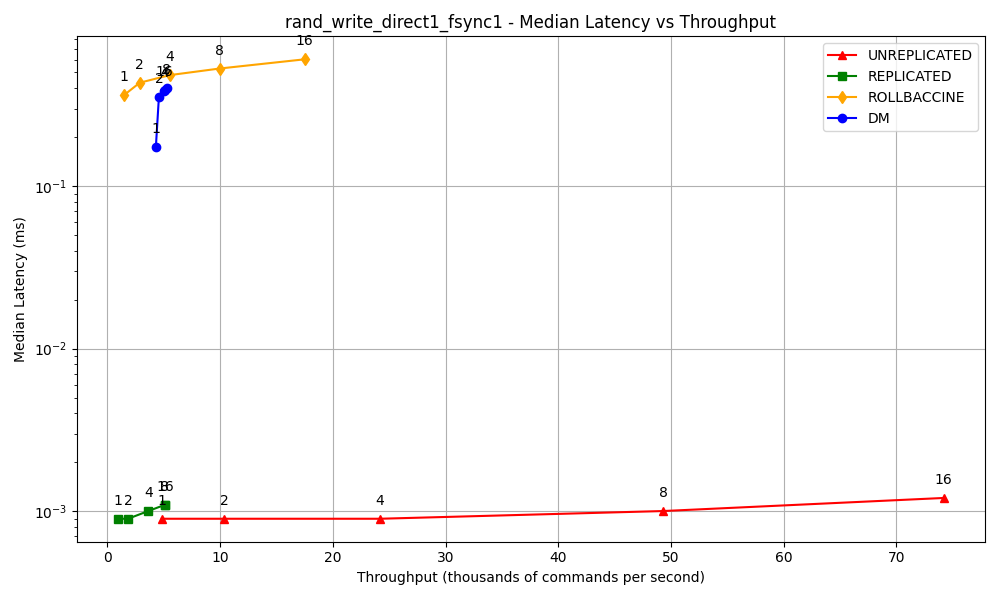
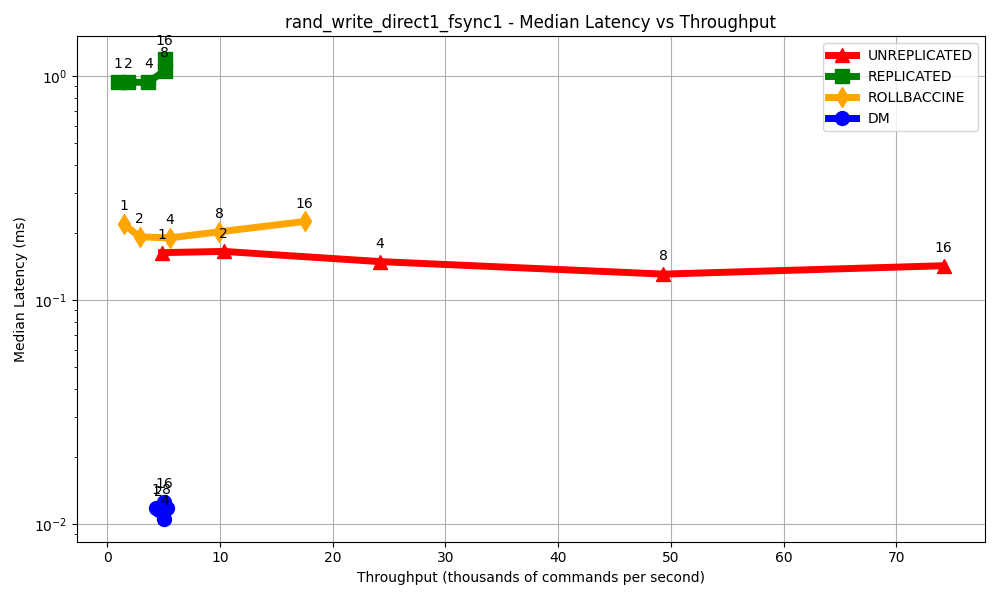
New fio script in order to saturate, fix graph script, data disk caching off for REPLICATED

diff --git a/src/tools/benchmarking/fio/fio_utils.py b/src/tools/benchmarking/fio/fio_utils.py
@@ -11,82 +11,66 @@ from benchmark import *
 from utils import *
 
 class FioBenchmark(Benchmark):
-    def build_fio_command(self, parameters, output_file):
+    def discard_fio_command(self, system_type, io_direction, sequentiality, direct, fsync, num_jobs):
         """
-        Builds the FIO command based on the given parameters.
+        Returns which fio commands should be discarded based on the system config, in order to saturate individual configs (or stop after we've saturated)
         """
-        fio_command = (
-            f'sudo fio '
-            f'--name={parameters["name"]} '
-            f'--rw={parameters["write_mode"]} '
-            f'--direct={parameters.get("direct", 1)} '
-            f'--bs={parameters["bs"]} '
-        )
-        if parameters.get('runtime', 0) > 0:
-            fio_command += f'--runtime={parameters["runtime"]} '
-            fio_command += '--time_based '
-        if parameters.get('ramp_time', 0) > 0:
-            fio_command += f'--ramp_time={parameters["ramp_time"]} '
-        fio_command += f'--filename={parameters.get("filename", "/tmp/fio_test_file")} '
-        if parameters.get('filename_format'):
-            fio_command += f'--filename_format={parameters["filename_format"]} '
-        fio_command += f'--output-format=json '
-        fio_command += f'--iodepth={parameters.get("iodepth", 1)} '
-        fio_command += f'--numjobs={parameters["numjobs"]} '
-        if parameters.get('group_reporting', True):
-            fio_command += '--group_reporting '
-        if parameters.get('fsync', 0) == 1:
-            fio_command += '--fsync=1 '
-        fio_command += '--end_fsync=1 '
+        if system_type == System.DM:
+            if io_direction == 'write':
+                if sequentiality == 'rand':
+                    if direct == 0:
+                        if fsync == 1:
+                            if num_jobs > 8:
+                                return True
+                    else: # direct = 1
+                        if num_jobs > 4:
+                            return True
+                else: # sequential
+                    if direct == 1 and fsync == 0:
+                        if num_jobs > 4:
+                            return True
+        if sequentiality == 'rand' and io_direction == 'write' and direct == 0 and fsync == 0 and num_jobs > 4:
+            return True
+        if sequentiality == '' and io_direction == 'read' and direct == 0 and fsync == 0 and num_jobs > 4:
+            return True
+        return False
 
-        # Include additional FIO options if provided
-        additional_fio_options = parameters.get('additional_fio_options')
-        if additional_fio_options:
-            fio_command += f'{additional_fio_options} '
-
-        fio_command += f'| tee {output_file}'
-        return fio_command
-    
-    def build_fio_parameters_list(self, system_type: System):
+    def build_fio_commands(self, system_type: System, output_dir: str):
         filename = mount_point(system_type)
 
-        # Possible values for each parameter
+        # Possible values for each parameter. Most intense options first so we see errors early
         io_directions = ['write', 'read']
-        sequentialities = ['seq', 'rand']
-        bufferings = [1, 0]  # direct=1 (Direct I/O) or direct=0 (Buffered I/O)
-        persistences = [1, 0]  # fsync=1 (Synchronous) or fsync=0 (Asynchronous)
+        sequentialities = ['', 'rand'] # Empty string means sequential
+        bufferings = [0, 1]  # direct=1 (Direct I/O) or direct=0 (Buffered I/O)
+        persistences = [0, 1]  # fsync=1 (Synchronous) or fsync=0 (Asynchronous)
+        num_jobs_list = [32, 16, 8, 4, 1]
+
+        # Replicated disk saturates very quickly, don't run too many jobs
+        if system_type == System.REPLICATED:
+            num_jobs_list = [16, 8, 1]
 
         # Generate all permutations
-        all_combinations = list(itertools.product(io_directions, sequentialities, bufferings, persistences))
+        all_combinations = list(itertools.product(io_directions, sequentialities, bufferings, persistences, num_jobs_list))
         all_combinations = [combo for combo in all_combinations if not (combo[0] == 'read' and combo[3] == 1)]
-        fio_parameters_list = []
-        print(f"all_combinations: {all_combinations}")
 
-        for io_direction, sequentiality, direct_io, fsync in all_combinations:
-            # Construct the 'rw' parameter for FIO
-            if sequentiality == 'seq':
-                rw = io_direction
-            else:
-                rw = 'rand' + io_direction
+        fio_commands = []
+        # Add 2 additional commands
+        all_combinations.insert(0, ('read', '', 0, 0, 6))
+        all_combinations.insert(0, ('write', '', 0, 0, 64))
 
-            # Build the fio parameter dictionary
-            fio_param = {
-                'name': f'{sequentiality}_{io_direction}_direct{direct_io}_fsync{fsync}',
-                'write_mode': rw,
-                'bs': '4k',
-                'direct': direct_io,
-                'filename': filename,
-                'runtime': 30,
-                'ramp_time': 60,
-                'group_reporting': True,
-            }
+        for io_direction, sequentiality, direct, fsync, num_jobs in all_combinations:
+            # Don't execute certain commands
+            if self.discard_fio_command(system_type, io_direction, sequentiality, direct, fsync, num_jobs):
+                continue
 
-            # Add fsync parameter if persistence is required
-            if fsync == 1:
-                fio_param['fsync'] = 1  # Issue fsync after each write
+            rw = sequentiality + io_direction
+            job_name = f"{rw}_direct{direct}_fsync{fsync}_threads_{num_jobs}_{str(uuid.uuid4())[:4]}"
+            output_file = os.path.join(output_dir, f'{job_name}_fio_results.json')
 
-            fio_parameters_list.append(fio_param)
-        return fio_parameters_list
+            fio_command = f'sudo fio --name={job_name} --rw={rw} --direct={direct} --filename={filename} --numjobs={num_jobs} --fsync={fsync} --bs=4k --ramp_time=30 --runtime=60 --time_based --output-format=json --iodepth=1 --group_reporting --end_fsync=1 | tee {output_file}'
+            fio_commands.append(fio_command)
+        return fio_commands
+    
     def filename(self):
         return "fio/fio_utils.py"
     
@@ -109,45 +93,32 @@ class FioBenchmark(Benchmark):
         return True
 
     def run(self, system_type: System, output_dir: str):
-        # Define the list of numjobs (thread counts) to test
-        numjobs_list = [1, 2, 4, 8, 16]
-        fio_parameters_list = self.build_fio_parameters_list(system_type)
-        total_benchmarks = len(fio_parameters_list) * len(numjobs_list)
-        current_benchmark = 0
-        print(f"Running {total_benchmarks} FIO benchmarks locally")
-
         success = subprocess_execute([f"sudo umount {MOUNT_DIR}"])
         if not success:
             print("Failed to unmount the mount point")
             return
+        
+        fio_commands = self.build_fio_commands(system_type, output_dir)
+        total_benchmarks = len(fio_commands)
+        current_benchmark = 0
+        print(f"Running {total_benchmarks} FIO benchmarks locally")
 
-        for fio_parameters_template in fio_parameters_list:
-            for numjobs in numjobs_list:
-                parameters = fio_parameters_template.copy()
-                parameters['numjobs'] = numjobs
-                short_uuid = str(uuid.uuid4())[:4]
-                job_name = f"{system_type}_{parameters['name']}_threads_{numjobs}_{short_uuid}"
+        for fio_command in fio_commands:
+            print(f"Running FIO command: {fio_command}")
 
-                output_file = os.path.join(output_dir, f'{job_name}_fio_results.json')
+            start_time = time.time()
+            # Execute the FIO command locally
+            success = subprocess_execute([fio_command])
+            if success:
+                print(f"FIO benchmark '{fio_command}' completed successfully")
+            else:
+                print(f"FIO benchmark '{fio_command}' failed")
+                sys.exit(1)
+                return
 
-                fio_command = self.build_fio_command(parameters, output_file)
-
-                print(f"Running FIO benchmark '{job_name}'")
-                print(f"FIO command: {fio_command}")
-
-                start_time = time.time()
-                # Execute the FIO command locally
-                success = subprocess_execute([fio_command])
-                if success:
-                    print(f"FIO benchmark '{job_name}' completed successfully")
-                else:
-                    print(f"FIO benchmark '{job_name}' failed")
-                    sys.exit(1)
-                    return
-
-                current_benchmark += 1
-                end_time = time.time()
-                print(f"***Elapsed time: {end_time - start_time:.2f} seconds, estimated remaining time: {(total_benchmarks - current_benchmark) * (end_time - start_time) / 60:.2f} minutes, completed {current_benchmark} of {total_benchmarks} benchmarks***")
+            current_benchmark += 1
+            end_time = time.time()
+            print(f"***Elapsed time: {end_time - start_time:.2f} seconds, estimated remaining time: {(total_benchmarks - current_benchmark) * (end_time - start_time) / 60:.2f} minutes, completed {current_benchmark} of {total_benchmarks} benchmarks***")
 
 if __name__ == "__main__":
     FioBenchmark().run(System[sys.argv[1]], sys.argv[2])

diff --git a/src/tools/benchmarking/fio/plot_fio_results.py b/src/tools/benchmarking/fio/plot_fio_results.py
@@ -40,44 +40,18 @@ def extract_performance_data(results):
     performance_data = {}
     for base_job_name, category, thread_count, job_data in results:
         rw_option = job_data['job options'].get('rw', '')
-        is_read = 'read' in rw_option
-        is_write = 'write' in rw_option
+        rw_name = 'read' if 'read' in rw_option else 'write'
 
-        if is_read:
-            # Throughput: use 'iops' from 'read'
-            read_iops = job_data['read']['iops']
-            # Latency: extract from 'read' -> 'clat_ns'
-            latency_percentiles = job_data['read'].get('clat_ns', {}).get('percentile', {})
-            median_latency_ns = latency_percentiles.get('50.000000')
-            if median_latency_ns is None:
-                median_latency_ns = job_data['read'].get('clat_ns', {}).get('mean', 0)
-            # Convert latency from nanoseconds to milliseconds
-            median_latency_ms = median_latency_ns / 1e6  # ns to ms
-            throughput_k = read_iops / 1000  # Convert to thousands
-
-        elif is_write:
-            # Throughput: use 'iops' from 'write'
-            write_iops = job_data['write']['iops']
-            # Check if 'fsync' is enabled in job options
-            fsync_enabled = job_data['job options'].get('fsync', '0') == '1'
-
-            # Latency: extract from 'sync' if 'fsync' is enabled, else from 'write'
-            if fsync_enabled and 'sync' in job_data and 'lat_ns' in job_data['sync']:
-                latency_percentiles = job_data['sync']['lat_ns'].get('percentile', {})
-                median_latency_ns = latency_percentiles.get('50.000000')
-                if median_latency_ns is None:
-                    median_latency_ns = job_data['sync']['lat_ns'].get('mean', 0)
-            else:
-                latency_percentiles = job_data['write'].get('clat_ns', {}).get('percentile', {})
-                median_latency_ns = latency_percentiles.get('50.000000')
-                if median_latency_ns is None:
-                    median_latency_ns = job_data['write'].get('clat_ns', {}).get('mean', 0)
-            # Convert latency from nanoseconds to milliseconds
-            median_latency_ms = median_latency_ns / 1e6  # ns to ms
-            throughput_k = write_iops / 1000  # Convert to thousands
-        else:
-            print(f"Unknown rw option '{rw_option}' in job '{job_data['jobname']}'. Skipping.")
-            continue
+        # Throughput: use 'iops' from 'read'
+        read_iops = job_data[rw_name]['iops']
+        # Latency: extract from 'read' -> 'clat_ns'
+        latency_percentiles = job_data[rw_name].get('clat_ns', {}).get('percentile', {})
+        median_latency_ns = latency_percentiles.get('50.000000')
+        if median_latency_ns is None:
+            median_latency_ns = job_data[rw_name].get('clat_ns', {}).get('mean', 0)
+        # Convert latency from nanoseconds to milliseconds
+        median_latency_ms = median_latency_ns / 1e6  # ns to ms
+        throughput_k = read_iops / 1000  # Convert to thousands
 
         if base_job_name not in performance_data:
             performance_data[base_job_name] = {}
@@ -118,7 +92,7 @@ def plot_latency_vs_throughput_per_job(performance_data, output_dir):
                 latencies.append(latency)
                 thread_counts.append(thread_count)
             label = f"{category}"
-            ax.plot(throughputs, latencies, marker=markers.get(category, 'o'), color=colors.get(category, 'black'), linestyle='-', label=label)
+            ax.plot(throughputs, latencies, marker=markers.get(category, 'o'), markersize=10, color=colors.get(category, 'black'), linestyle='-', linewidth=5, label=label)
             # Annotate each data point with the number of threads
             for i in range(len(throughputs)):
                 ax.annotate(f"{thread_counts[i]}", (throughputs[i], latencies[i]), textcoords="offset points", xytext=(0,10), ha='center')
